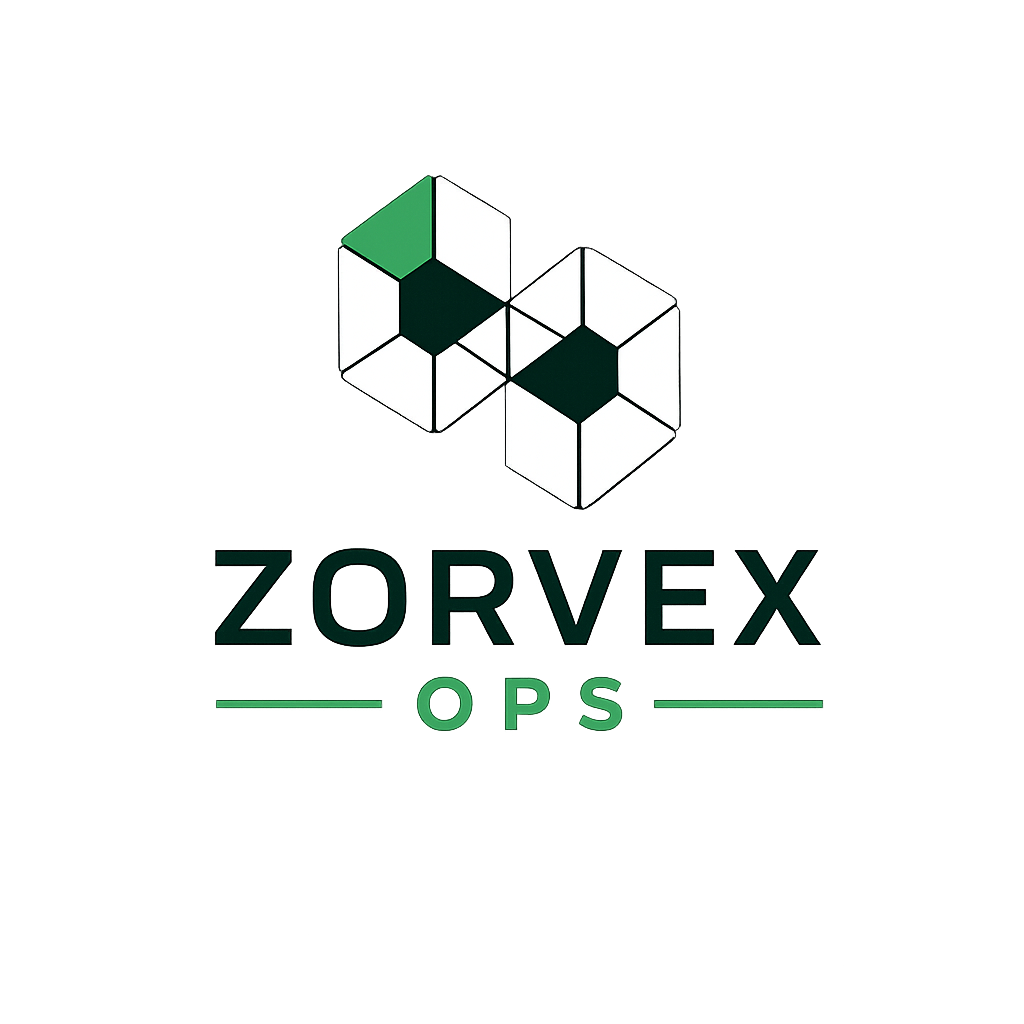
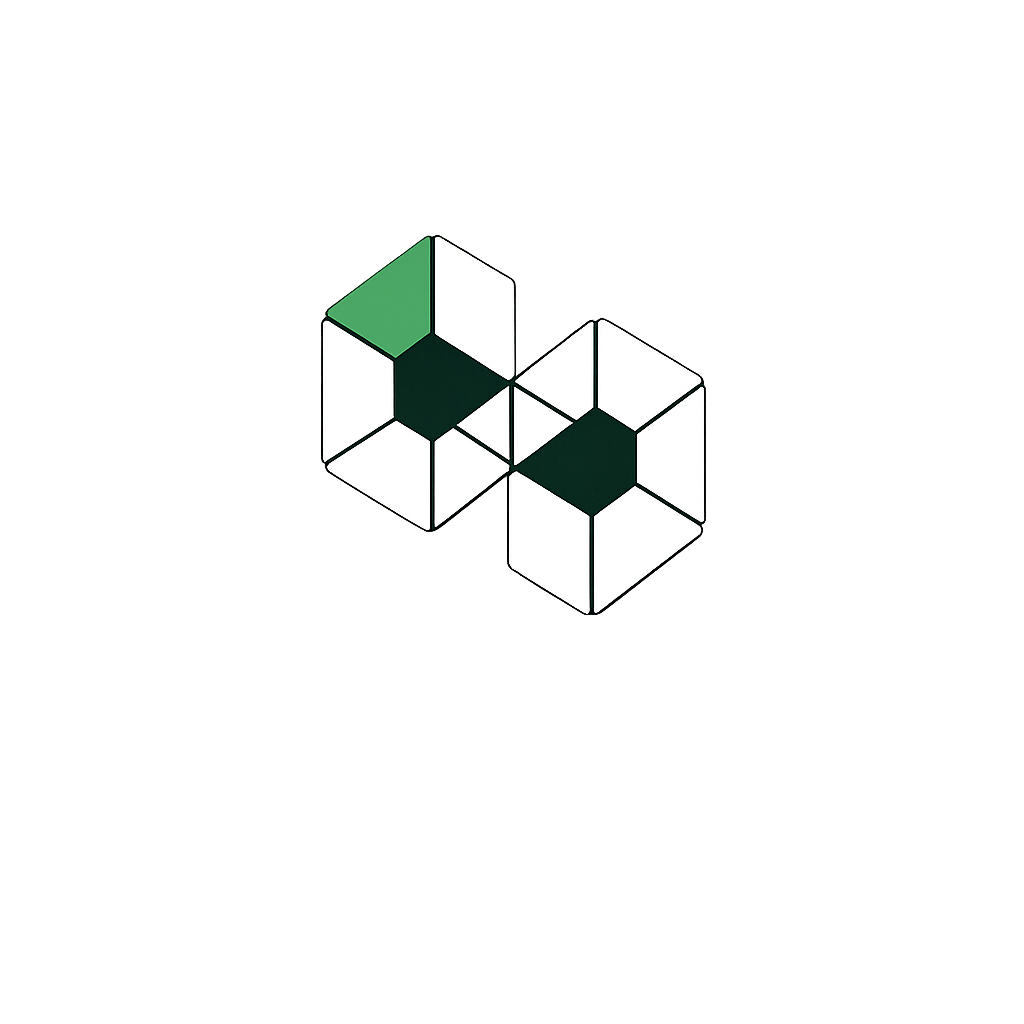
Update

Changed region(s): [[0.1875, 0.1562, 0.8125, 0.7188], [0.4062, 0.6562, 0.625, 0.7188], [0.3125, 0.4375, 0.3438, 0.4688]]

diff --git a/src/components/Footer.jsx b/src/components/Footer.jsx
@@ -26,9 +26,9 @@ const Footer = () => {
         <div style={{ display: 'grid', gridTemplateColumns: 'repeat(auto-fit, minmax(220px, 1fr))', gap: '56px', marginBottom: 72 }}>
           {/* Brand col */}
           <div>
-            <div style={{ display: 'flex', alignItems: 'center', gap: 12, marginBottom: 24 }}>
-              <div style={{ width: 48, height: 48, display: 'flex', alignItems: 'center', justifyContent: 'center', flexShrink: 0 }}>
-                <img src="/favicon.svg" alt="Logo" style={{ width: '100px', height: '100px', objectFit: 'contain' }} />
+            <div style={{ display: 'flex', alignItems: 'center', gap: 8, marginBottom: 24 }}>
+              <div style={{ width: 100, height: 100, display: 'flex', alignItems: 'center', justifyContent: 'center', flexShrink: 0 }}>
+                <img src="./icons.png" alt="Logo" style={{ width: '100%', height: '100%', objectFit: 'contain' }} />
               </div>
               <span style={{ fontFamily: 'Outfit,sans-serif', fontWeight: 900, fontSize: '1.5rem', letterSpacing: '-0.04em' }}>
                 Zorvex<span style={{ color: '#22B573' }}>Ops</span>

diff --git a/src/components/Navbar.jsx b/src/components/Navbar.jsx
@@ -36,13 +36,13 @@ const Navbar = () => {
             transition: 'all 0.5s cubic-bezier(0.16,1,0.3,1)',
           }}>
             {/* Logo */}
-            <a href="#" style={{ display: 'flex', alignItems: 'center', gap: 12 }}>
+            <a href="#" style={{ display: 'flex', alignItems: 'center', gap: 8 }}>
               <div style={{
-                width: 44, height: 44,
+                width: 60, height: 60,
                 display: 'flex', alignItems: 'center', justifyContent: 'center',
                 flexShrink: 0,
               }}>
-                <img src="/icons.svg" alt="Logo" style={{ width: '100%', height: '100%', objectFit: 'contain' }} />
+                <img src="/icons.png" alt="Logo" style={{ width: '100%', height: '100%', objectFit: 'contain' }} />
               </div>
               <span style={{ fontFamily: 'Outfit,sans-serif', fontWeight: 900, fontSize: '1.35rem', letterSpacing: '-0.04em', color: '#0F172A' }}>
                 Zorvex<span style={{ color: '#0F7F4F' }}>Ops</span>
